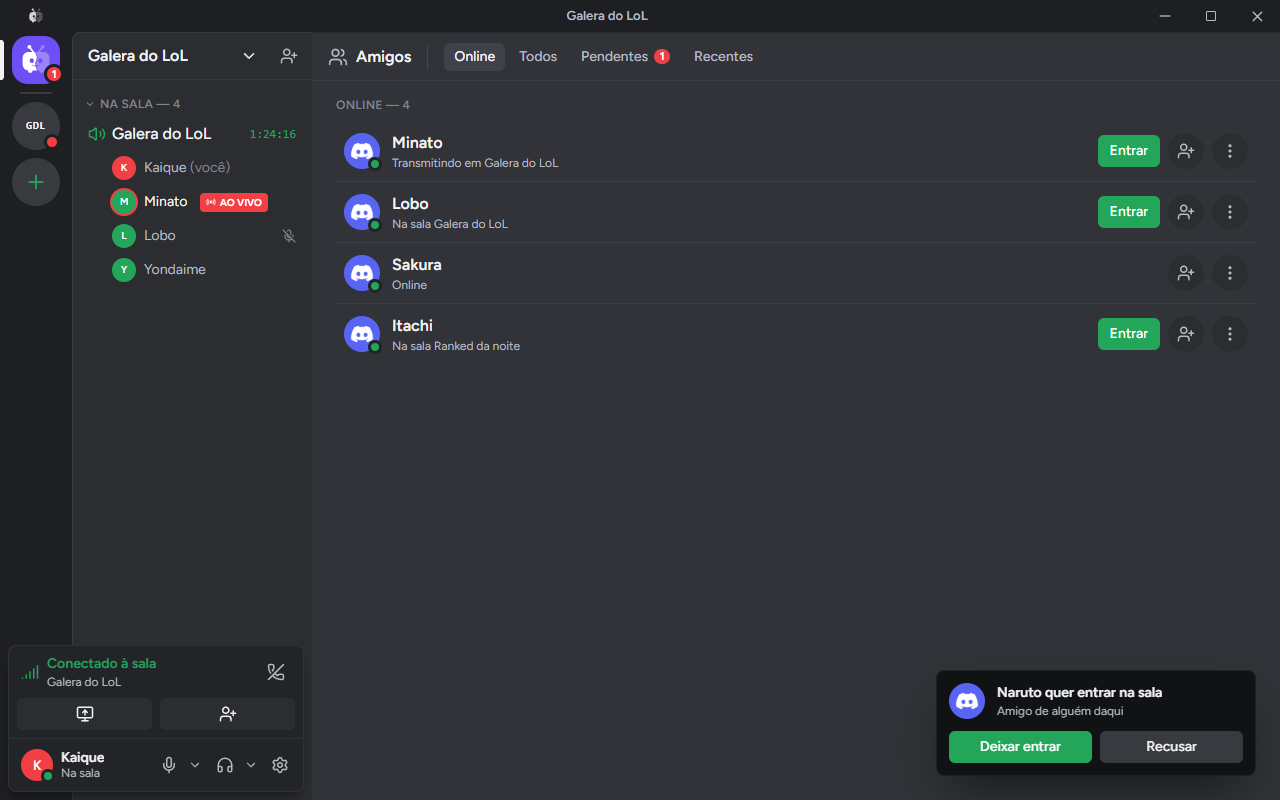
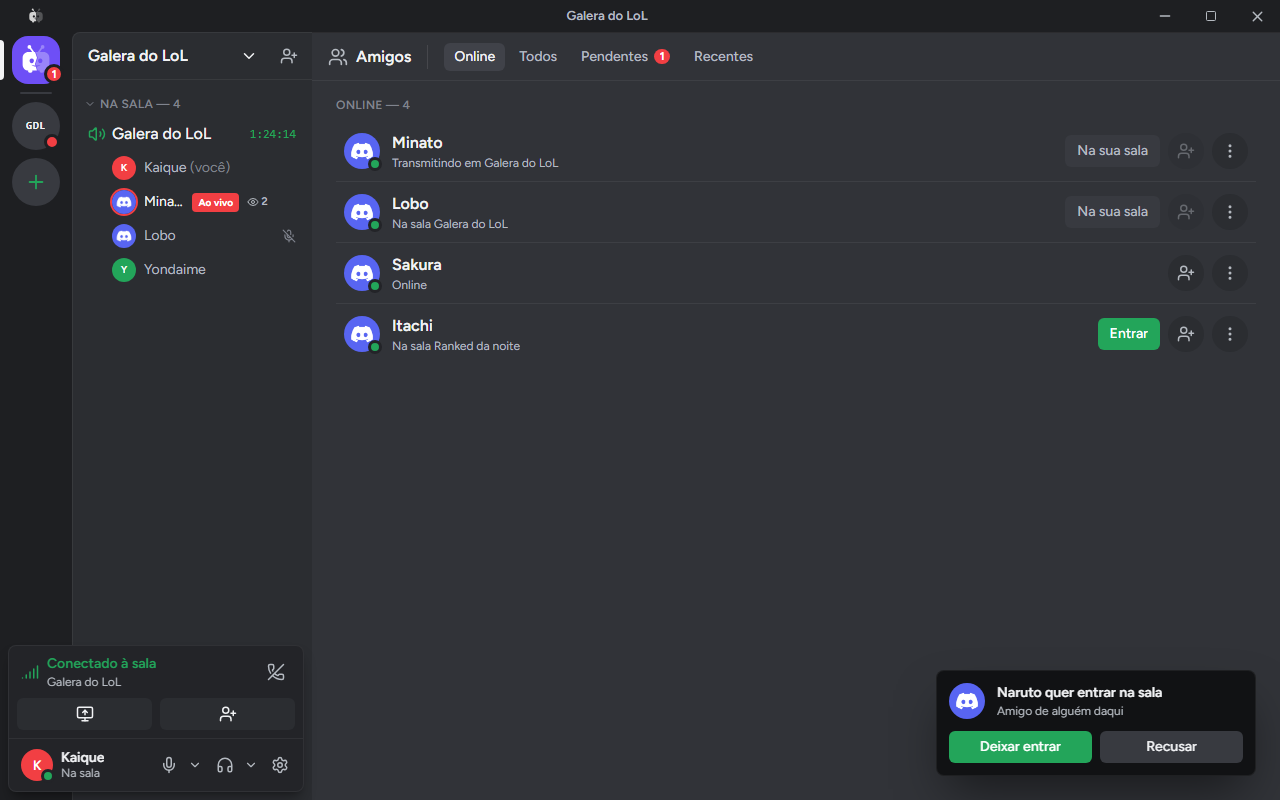
docs: README e site da versão 0.5
Textos da 0.5 (CGNAT, quem está assistindo, sons e bandeja, também no resumo em inglês) e capturas novas: o selo "Ao vivo", o olhinho com quem assiste, a página de Sons e Windows nas configurações e "Na sua sala" nos amigos. As cenas de demonstração ganharam quem assiste e amigos na sala.

Changed region(s): [[0.8438, 0.1562, 0.9062, 0.3125], [0.0625, 0.2188, 0.2188, 0.3125]]

diff --git a/apps/desktop/src/dev/demo.ts b/apps/desktop/src/dev/demo.ts
@@ -8,12 +8,20 @@ import { useAppearanceStore } from "../settings/appearance-store";
 import { useRoomStore } from "../room/room-store";
 import { type Source, sourceKey, useStreamStore } from "../stream/stream-store";
 
+// Lobo e Yondaime assistem o Minato: o 👁 2 aparece ao lado do "Ao vivo".
 const MEMBERS = [
   { id: "eu", name: "Kaique", live: false },
   { id: "a", name: "Minato", live: true },
-  { id: "b", name: "Lobo", live: false, muted: true },
-  { id: "c", name: "Yondaime", live: false },
+  { id: "b", name: "Lobo", live: false, muted: true, watching: "a" },
+  { id: "c", name: "Yondaime", live: false, watching: "a" },
 ];
+
+/** Na página de amigos, Minato e Lobo estão na sala com a gente: aparecem "Na sua sala". */
+const WITH_FRIENDS = MEMBERS.map((m) =>
+  m.id === "a" || m.id === "b"
+    ? { ...m, discord: { id: m.id === "a" ? "100000000000000001" : "100000000000000002", avatar: null } }
+    : m,
+);
 
 const online = (room: string | null, live = false) => ({ online: true, inRoom: room !== null, room, live });
 const FRIENDS = [
@@ -95,6 +103,7 @@ export function runDemo(scene: string) {
     __TAURI_INTERNALS__: { invoke: async (cmd: string) => FAKE_COMMANDS[cmd] ?? null },
   });
   if (scene === "amigos") {
+    useRoomStore.setState({ members: WITH_FRIENDS });
     useFriendsStore.setState({
       status: "online",
       open: true,

diff --git a/site/index.html b/site/index.html
@@ -256,7 +256,7 @@
 
       <main>
         <div class="hero">
-          <span class="pill"><b>NOVO</b> Versão 0.4.0: jogue do jeito que quiser</span>
+          <span class="pill"><b>NOVO</b> Versão 0.5.0: conecta até atrás de CGNAT</span>
           <h1>Compartilhe a tela do jogo com a galera da call</h1>
           <p class="lead">
             Até 1440p60, com baixa latência e quase sem pesar no jogo. O vídeo e a voz vão direto de um PC para o outro,

diff --git a/README.md b/README.md
@@ -35,7 +35,7 @@
 </p>
 
 > [!NOTE]
-> **Versão 0.4: jogue do jeito que quiser.** Transmita em janela, sem bordas ou tela cheia: o app acompanha o jogo sozinho do cliente para a partida. A voz chega no mesmo volume do Discord, a página inicial é a dos amigos e o app se atualiza sozinho ao abrir. Um amigo transmite e o resto assiste dentro do app, direto de PC para PC. O repasse entre membros (a sala distribuindo o vídeo sozinha) chega na [Fase 3](docs/roadmap.md). Achou um problema? [Abra uma issue](https://github.com/Kaique292/squadview/issues).
+> **Versão 0.5: conecta até atrás de CGNAT.** Quem não conseguia assistir um amigo por causa da internet da operadora agora conecta por IPv6 ou recebe o vídeo por quem já está assistindo. A live mostra quantos e quem estão vendo, o app toca sons de aviso como o Discord e, ao fechar a janela, fica na bandeja sem sair da sala. A sala inteira distribuindo o vídeo (salas sem limite) chega na [Fase 3](docs/roadmap.md). Achou um problema? [Abra uma issue](https://github.com/Kaique292/squadview/issues).
 
 ## ✨ O que ele faz
 
@@ -45,12 +45,14 @@
 - **Direto de PC para PC.** O vídeo não passa por servidor. As conexões são cifradas (QUIC com TLS 1.3).
 - **Jogue do jeito que quiser.** Janela, sem bordas ou tela cheia: escolha o jogo uma vez e o app acompanha sozinho do cliente para a partida e de volta (LoL, Valorant e jogos com launcher). Nada é injetado no jogo, então é seguro com Vanguard, EAC e BattlEye.
 - **Só o áudio do jogo.** Transmitindo um jogo ou app, vai só o som dele, e o som acompanha quando o jogo troca de janela; o som da call fica de fora.
-- **Assista dentro do app**, como no Discord: o vídeo aparece na janela, com tela cheia, volume de até 200% e estatísticas (fps, bitrate, latência e ping).
+- **Assista dentro do app**, como no Discord: o vídeo aparece na janela, com tela cheia, volume de até 200% e estatísticas (fps, bitrate, latência e ping). Quem transmite vê quantos e quem estão assistindo.
+- **Funciona atrás de CGNAT.** Se a conexão direta não fecha (internet da operadora, 4G), o app tenta por IPv6 e, se ainda não der, recebe o vídeo por alguém da sala que já está assistindo. Há também um repassador na nuvem pronto para ligar ([ADR 0014](docs/adr/0014-conexao-em-camadas.md)).
 - **Chat de voz na sala.** A sala é um canal de voz como o do Discord: um quadro por pessoa, borda verde em quem fala, mudo e surdo, e clique num quadro para pôr a pessoa em foco. Volume e silenciar por pessoa (só para você), isolamento de voz contra teclado e ventilador e controle automático de ganho, para todo mundo chegar no mesmo volume. A voz também vai direto de PC para PC.
 - **Amigos.** Veja quem está online, numa sala ou transmitindo. Peça para entrar na sala de um amigo (qualquer pessoa da sala aceita), chame amigos para a sua e marque quem entra direto. Adicione direto pelo botão direito em quem está na sala com você, ou depois, em Recentes.
 - **Salas com nome e código.** Dê um nome à sala e mande o **link de convite**: quem tem o app entra direto, quem não tem cai na página de download.
 - **Integração com o Discord.** Entre com a sua conta: seu nome e sua foto aparecem para toda a sala. Mostre no seu perfil do Discord que está numa sala, transmitindo ou assistindo, com o botão "Entrar na sala" se quiser.
-- **Visual que você já conhece.** Interface na organização do Discord, com identidade própria, configurações por categoria e efeito de vidro ajustável.
+- **Visual que você já conhece.** Interface na organização do Discord, com identidade própria, configurações por categoria e efeito de vidro ajustável. Sons de aviso ao entrar, sair, mutar, ensurdecer e transmitir (com volume e cada som desligável).
+- **Fica na bandeja.** Fechar a janela deixa o app perto do relógio, e você continua na sala; clique no ícone para abrir ou use "Sair" no botão direito. Dá para desligar em Configurações › Windows.
 - **Instala e atualiza como o Discord.** Sem assistente: o instalador termina em segundos e já abre o app. Se tiver versão nova quando você abre o app, ele já se atualiza ali, com uma barra para o download e outra para a instalação. Com o app aberto, a setinha verde aparece na barra de título; um clique e ele se atualiza. Os pacotes são assinados. Se você estiver numa sala, ele volta sozinho para ela, e mostra as novidades da versão.
 - **Registro de desempenho só no seu PC.** Pode ser desligado; um botão copia os arquivos para você mandar a quem for ajudar.
 
@@ -133,7 +135,7 @@ Não. Janela, sem bordas ou tela cheia funcionam do mesmo jeito. Escolha o jogo 
 <details>
 <summary><b>Minha internet é CGNAT. Funciona?</b></summary>
 
-Na maioria dos casos, sim: o app fura o roteador e conecta direto. Se as duas pontas estiverem atrás de um CGNAT muito restrito, a conexão pode falhar, e o app avisa. Na Fase 3, outro membro da sala que consegue falar com vocês dois vai poder fazer a ponte.
+Sim, na grande maioria dos casos. Primeiro o app fura o roteador e conecta direto. Se não der, tenta por IPv6, que não tem CGNAT (muitas operadoras já entregam). Se ainda não der, quem já está assistindo a live repassa o vídeo para você. Só falha se as duas pontas estiverem atrás de CGNAT, sem IPv6 e sem ninguém na sala que alcance vocês dois, e aí o app avisa. Para esse caso há um repassador na nuvem pronto, desligado por enquanto ([ADR 0014](docs/adr/0014-conexao-em-camadas.md)).
 </details>
 
 <details>
@@ -208,7 +210,7 @@ As miniaturas das janelas usam o crate `jpeg-encoder`: _this software is based i
 
 There is **no media server**: video goes directly between PCs over QUIC, with UDP hole punching. The plan (Phase 3) is for the room itself to distribute the video: members with spare upload relay already-encoded packets, and members on weak connections get a 720p layer. A tiny free signaling service (Cloudflare Worker) only helps peers find each other; no video goes through it.
 
-- **Status:** version 0.3. One friend streams and the rest of the room watches inside the app, directly PC to PC (NVIDIA and AMD). The room is a Discord-like voice channel (peer-to-peer Opus voice with noise suppression), and there are friends with presence and "ask to join" requests that anyone in the room can approve. Discord login, invite links, Rich Presence and a silent Discord-style installer. Relaying through the room (mesh) is Phase 3. See the [roadmap](docs/roadmap.md).
+- **Status:** version 0.5. One friend streams and the rest of the room watches inside the app, directly PC to PC (NVIDIA and AMD), with a live viewer count. Members behind CGNAT connect over IPv6 or get the stream relayed by someone already watching; an optional cloud TURN relay is ready to turn on. The room is a Discord-like voice channel (peer-to-peer Opus voice with noise suppression), with friends, presence, "ask to join" requests, notification sounds and a system tray icon. Discord login, invite links, Rich Presence and a silent Discord-style installer. Full room-wide relaying (mesh) is Phase 3. See the [roadmap](docs/roadmap.md).
 - **Stack:** Rust core, Tauri v2, React 19 + Tailwind v4, QUIC (quinn) peer-to-peer mesh, Cloudflare Worker for signaling.
 - **Contributing:** PRs target the `dev` branch and use [Conventional Commits](https://www.conventionalcommits.org/). Docs are in Portuguese; issues and PRs in English are welcome too.
 - **Support:** [Buy Me a Coffee](https://buymeacoffee.com/kaiqueamaral).
